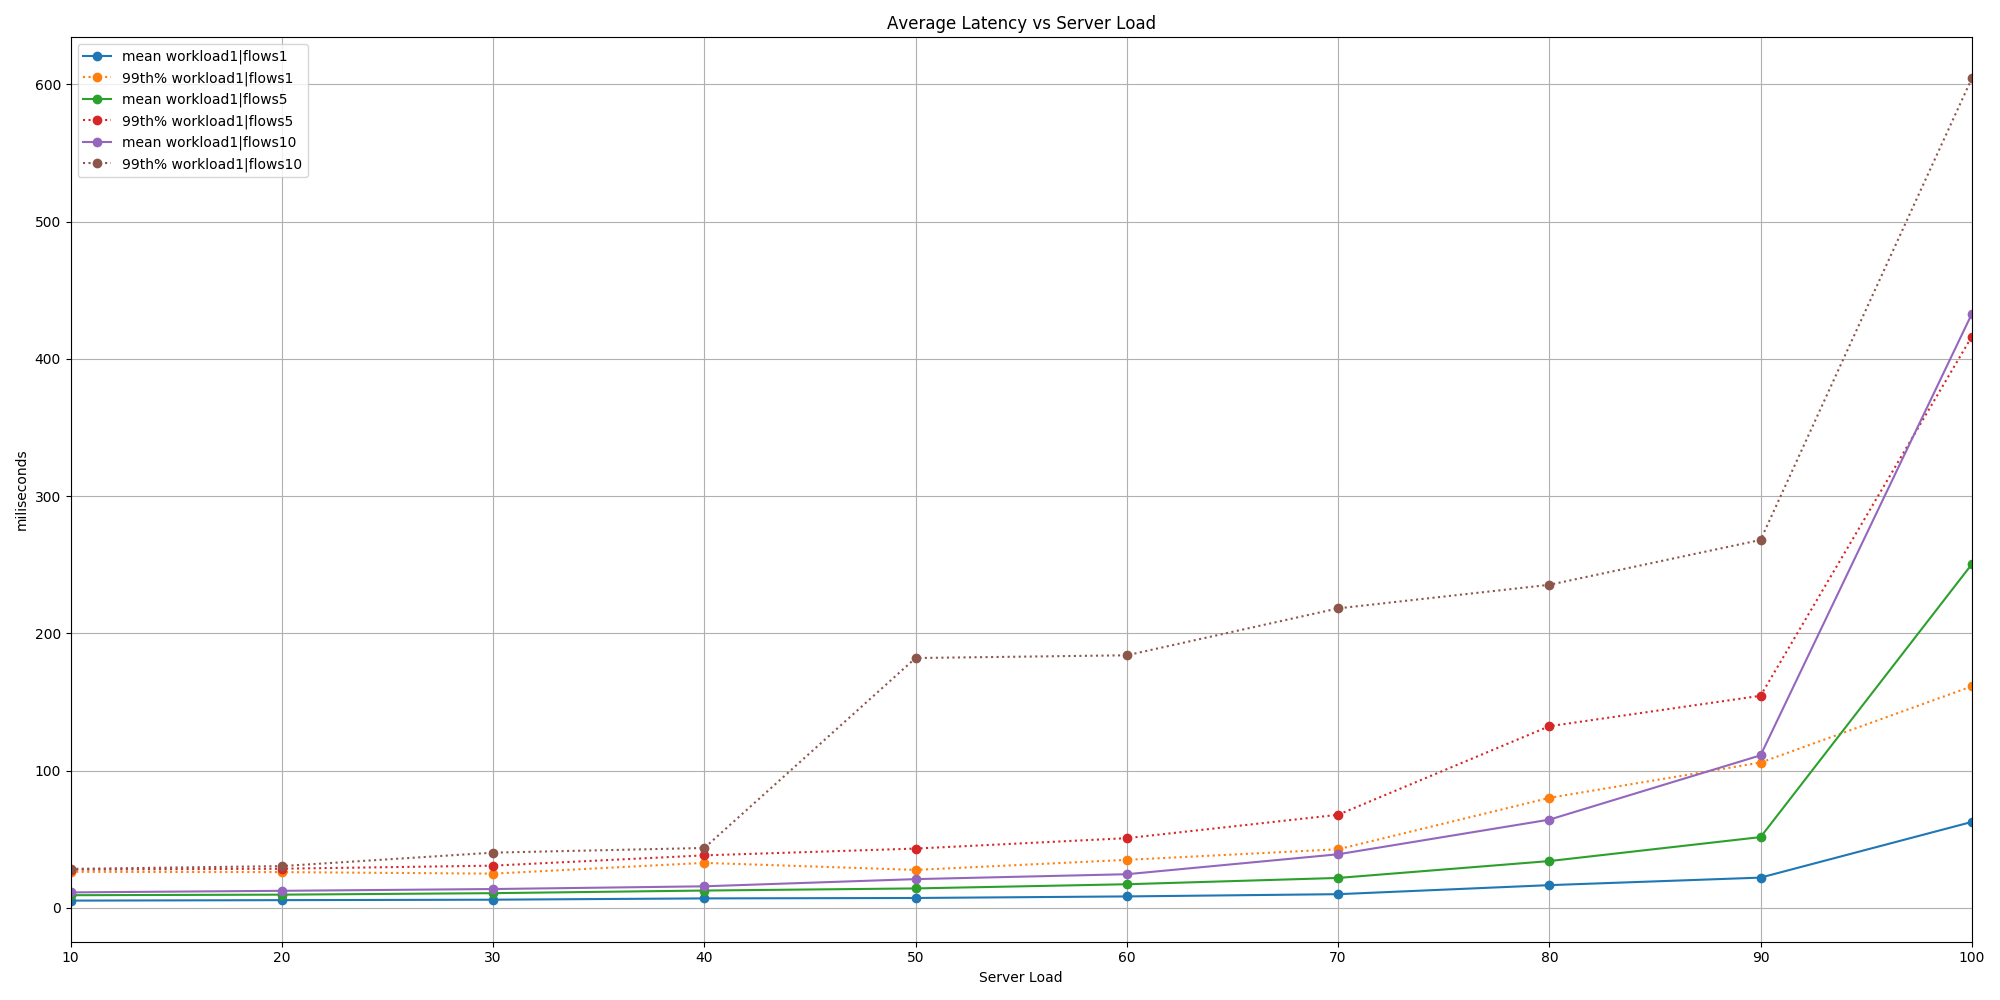
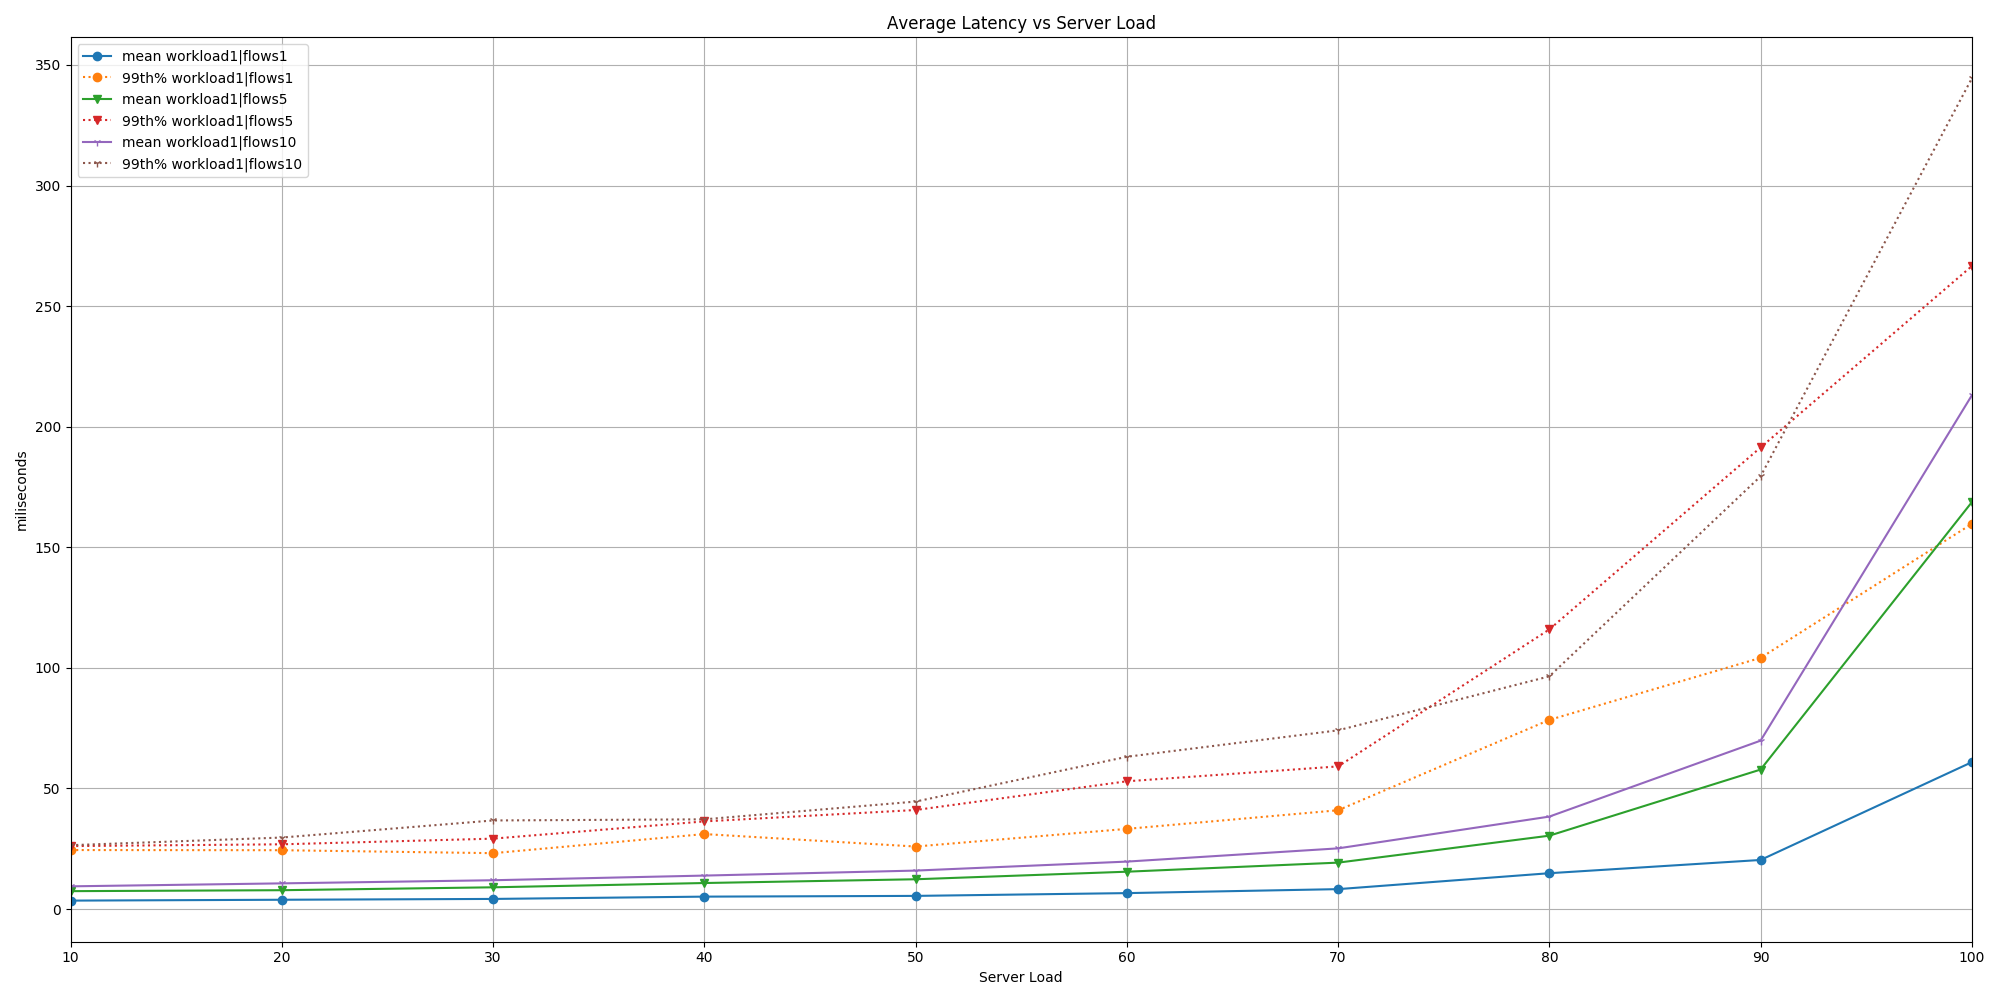
added more marker options for plots

diff --git a/parse_data.py b/parse_data.py
@@ -54,15 +54,20 @@ def main():
 def plot_mean_lat_vs_xaxis(shape, paths, x_axis, means, means_99, x_axis_title,
                             out_folder_name, log_y=False):
     #Create mean_latency - x_axis graph
+    markers = ["o","v","1","s","p","P","*","x"]
     fig, ax = plt.subplots(nrows=1, ncols=1, figsize=(20,10))
     for i in range(0,shape[0]):
         label = paths[i].split("/")[-1]
         if log_y:
-            ax.semilogy(x_axis, means[i]*1000.0, label="mean "+label, marker='o') 
-            ax.semilogy(x_axis, means_99[i]*1000.0, ':', label="99th% "+label, marker='o')         
+            ax.semilogy(x_axis, means[i]*1000.0, label="mean "+label, 
+                        marker=markers[i%len(markers)]) 
+            ax.semilogy(x_axis, means_99[i]*1000.0, ':', label="99th% "+label, 
+                        marker=markers[i%len(markers)])         
         else:
-            ax.plot(x_axis, means[i]*1000.0, label="mean "+label, marker='o') 
-            ax.plot(x_axis, means_99[i]*1000.0, ':', label="99th% "+label, marker='o')     
+            ax.plot(x_axis, means[i]*1000.0, label="mean "+label, 
+                        marker=markers[i%len(markers)]) 
+            ax.plot(x_axis, means_99[i]*1000.0, ':', label="99th% "+label, 
+                        marker=markers[i%len(markers)])     
     
     ax.set_title("Average Latency vs " + x_axis_title)
     ax.legend(loc='upper left')
